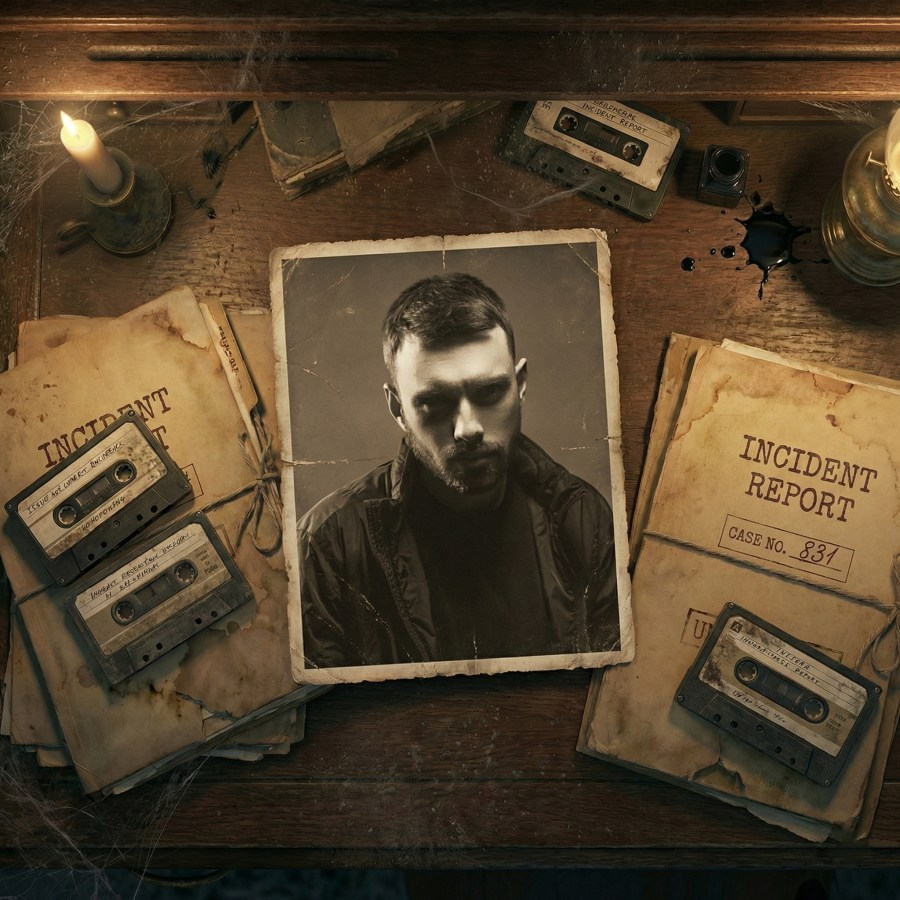
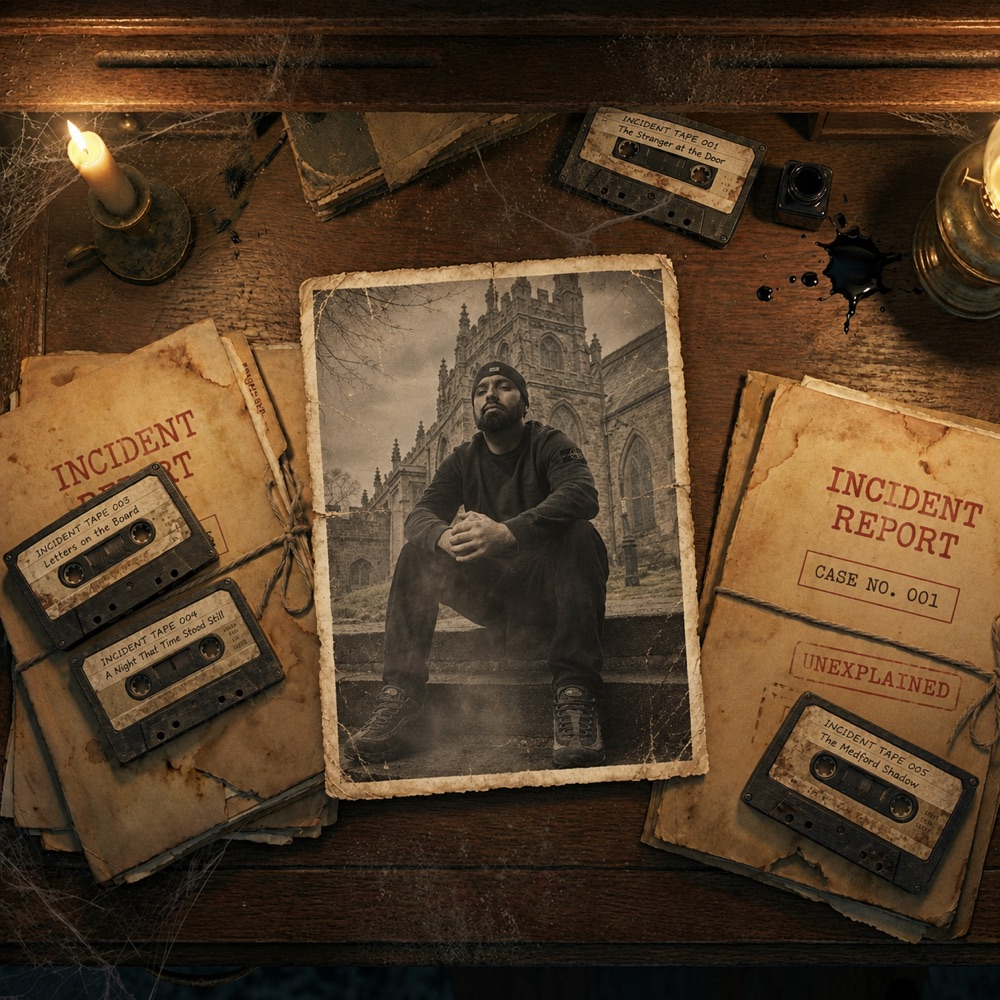
New Reporter photo (#22)

diff --git a/partials/archive.html b/partials/archive.html
@@ -48,7 +48,7 @@
         <div class="paperclip"></div>
         <div class="head"><span>Personnel file</span></div>
         <div class="who">
-          <img class="sepia-photo" src="images/reporter.jpg" alt="The Reporter">
+          <img class="sepia-photo" src="images/reporter.jpg?v=2" alt="The Reporter">
           <div><small>The Reporter</small><b>Matt</b></div>
         </div>
         <p>Ever since Matt was a child, he’s encountered the eerie and unexplained. Now he shares his stories, and the stories of others who’ve experienced the unknown.</p>

diff --git a/partials/reporter.html b/partials/reporter.html
@@ -2,7 +2,7 @@
   <article class="personnel">
     <div class="paperclip"></div>
     <figure class="mug" style="margin:0">
-      <img class="sepia-photo" src="images/reporter.jpg" alt="The Reporter">
+      <img class="sepia-photo" src="images/reporter.jpg?v=2" alt="The Reporter">
       <figcaption><span>Personnel photo</span><span>Ref. R-01</span></figcaption>
     </figure>
     <div style="display:grid;gap:1rem;align-content:start">
